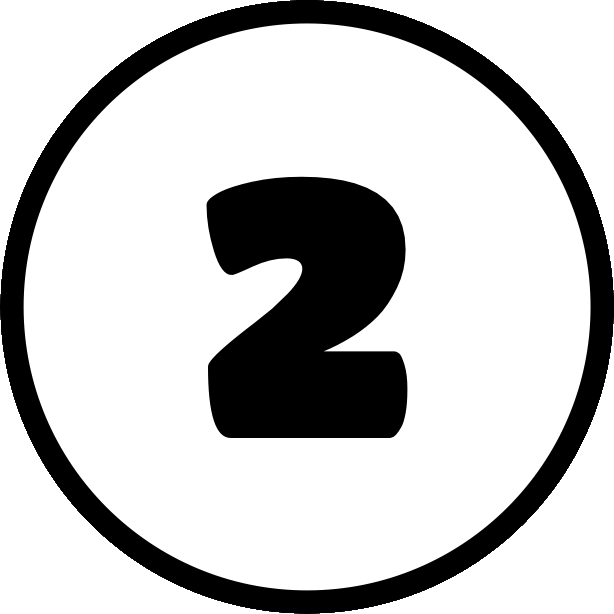
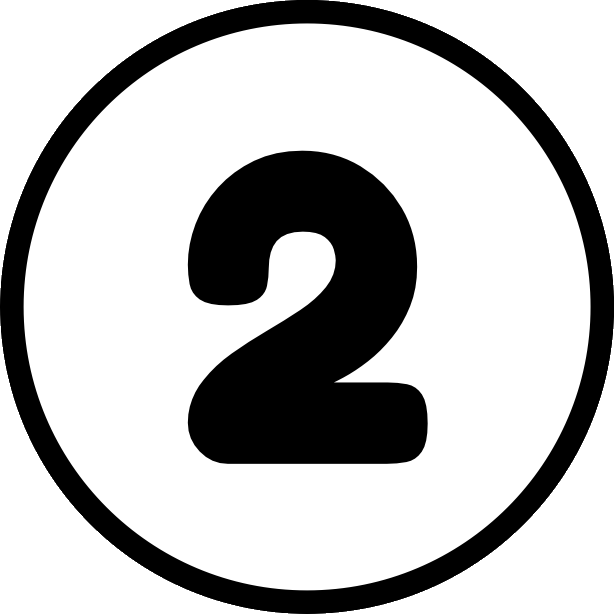
Modifying some components for accessibility for impaired colour vision

Changed region(s): [[0.3094, 0.3404, 0.7117, 0.7736], [0.2785, 0.3404, 0.557, 0.6189], [0.3404, 0.2476, 0.6498, 0.3404]]

diff --git a/balloon_cards_fronts.tex b/balloon_cards_fronts.tex
@@ -1,23 +1,24 @@
 \documentclass{standalone}
 \usepackage{balloonspectacular}
+\setmainfont{Titan One}
 
 \begin{document}
 \begin{tikzpicture}
 \path (0,0) rectangle (210mm, 297mm);
-\pic[rotate=90, transform shape] at (41.5mm,35mm) {ballooncardfrontprintable={{Images/lion.png}{1.0}}};
-\pic[rotate=90, transform shape] at (41.5mm,80mm) {ballooncardfrontprintable={{Images/diag_gr.png}{1.0}}};
-\pic[rotate=90, transform shape] at (41.5mm,125mm) {ballooncardfrontprintable={{Images/horiz_gw.png}{1.0}}};
-\pic[rotate=90, transform shape] at (41.5mm,170mm) {ballooncardfrontprintable={{Images/grid_py.png}{1.0}}};
-\pic[rotate=90, transform shape] at (41.5mm,215mm) {ballooncardfrontprintable={{Images/vert_ry.png}{1.0}}};
-\pic[rotate=90, transform shape] at (41.5mm,260mm) {ballooncardfrontprintable={{Images/diag_gp.png}{1.0}}};
+\pic[rotate=90, transform shape] at (41.5mm,35mm) {ballooncardfrontprintable={{Images/lion.png}{1.0}{-}{-}}};
+\pic[rotate=90, transform shape] at (41.5mm,80mm) {ballooncardfrontprintable={{Images/diag_gr.png}{1.0}{G}{R}}};
+\pic[rotate=90, transform shape] at (41.5mm,125mm) {ballooncardfrontprintable={{Images/horiz_gw.png}{1.0}{G}{W}}};
+\pic[rotate=90, transform shape] at (41.5mm,170mm) {ballooncardfrontprintable={{Images/grid_py.png}{1.0}{P}{Y}}};
+\pic[rotate=90, transform shape] at (41.5mm,215mm) {ballooncardfrontprintable={{Images/vert_ry.png}{1.0}{R}{Y}}};
+\pic[rotate=90, transform shape] at (41.5mm,260mm) {ballooncardfrontprintable={{Images/diag_gp.png}{1.0}{G}{P}}};
 
-\pic[rotate=90, transform shape] at (105mm,35mm) {ballooncardfrontprintable={{Images/wolf.png}{1.0}}};
-\pic[rotate=90, transform shape] at (105mm,80mm) {ballooncardfrontprintable={{Images/vert_pw.png}{1.0}}};
-\pic[rotate=90, transform shape] at (105mm,125mm) {ballooncardfrontprintable={{Images/vert_gy.png}{1.0}}};
-\pic[rotate=90, transform shape] at (105mm,170mm) {ballooncardfrontprintable={{Images/horiz_pr.png}{1.0}}};
-\pic[rotate=90, transform shape] at (105mm,215mm) {ballooncardfrontprintable={{Images/grid_rw.png}{1.0}}};
-\pic[rotate=90, transform shape] at (105mm,260mm) {ballooncardfrontprintable={{Images/diag_wy.png}{1.0}}};
+\pic[rotate=90, transform shape] at (105mm,35mm) {ballooncardfrontprintable={{Images/wolf.png}{1.0}{-}{-}}};
+\pic[rotate=90, transform shape] at (105mm,80mm) {ballooncardfrontprintable={{Images/vert_pw.png}{1.0}{P}{W}}};
+\pic[rotate=90, transform shape] at (105mm,125mm) {ballooncardfrontprintable={{Images/vert_gy.png}{1.0}{G}{Y}}};
+\pic[rotate=90, transform shape] at (105mm,170mm) {ballooncardfrontprintable={{Images/horiz_pr.png}{1.0}{P}{R}}};
+\pic[rotate=90, transform shape] at (105mm,215mm) {ballooncardfrontprintable={{Images/grid_rw.png}{1.0}{R}{W}}};
+\pic[rotate=90, transform shape] at (105mm,260mm) {ballooncardfrontprintable={{Images/diag_wy.png}{1.0}{W}{Y}}};
 
-\pic[rotate=90, transform shape] at (168.5mm,35mm) {ballooncardfrontprintable={{Images/monkey.png}{1.0}}};
+\pic[rotate=90, transform shape] at (168.5mm,35mm) {ballooncardfrontprintable={{Images/monkey.png}{1.0}{-}{-}}};
 \end{tikzpicture}
 \end{document}

diff --git a/scoring_token.tex b/scoring_token.tex
@@ -3,10 +3,12 @@
 
 %\setmainfont[Scale=2.5]{Titan One}
 \setmainfont[Scale=1.75]{Titan One}
+\setmainfont[Scale=2.125]{Fredoka-Bold}
+
 \begin{document}
 \begin{tikzpicture}
 
-\node[draw, line width=1mm, circle, minimum width=25mm, inner sep = 1mm] at (0,0) {{\Huge 9}};
+\node[draw, line width=1mm, circle, minimum width=25mm, inner sep = 1mm] at (0,0) {{\Huge 1}};
 
 \end{tikzpicture}
 

diff --git a/card_face_with_colour_labels.tex b/card_face_with_colour_labels.tex
@@ -1,0 +1,10 @@
+\documentclass{standalone}
+\usepackage{balloonspectacular}
+\setmainfont[Scale=1.5]{Fredoka-Bold}
+\setlength{\smallbleed}{0mm}
+
+\begin{document}
+\begin{tikzpicture}
+	\pic at (0,0) {ballooncardbackprintable={{Images/solid_y.png}{1.0}{Y}{Y}}};
+\end{tikzpicture}
+\end{document}

diff --git a/README.md b/README.md
@@ -88,13 +88,11 @@ In a cooperative game, your score is the width of the formation (i.e. the number
 ### Competitive Game
 In a competitive game, each balloon scores a number of points that is determined by its position within the formation. In general, balloons that are flying at higher altitudes score more points than those that are flying at lower alititudes.  If balloons are flying at the same altitude, then the balloons that are closer to the front (right-hand side) of the formation score more points than the balloons that are closer to the back (left-hand side) of the formation. 
 
-More precisely, each balloon scores a number of points equal to one plus the number of balloons flying at a lower altitude than itself plus the number of balloons flying at the same altitude as itself but behind it (to the left) in the formation. You should use the scoring tokens to indicate how many points each balloon scores.
-
 Use the scoring tokens to indicate the number of points scored by each balloon. Place the scoring token numbered "1" on the leftmost balloon in the bottom row of the formation. Scanning from left to right, place scoring tokens on the remaining balloons in the bottom row of the formation, always placing the token with lowest remaining number. Then proceed to the next highest row of the formation. Continue in this fashion, scanning from left to right and bottom to top, until each balloon that is flying has been assigned a scoring token.
 
 Notice that the leftmost balloon in the bottom row of the formation always scores one point while the rightmost balloon in the top row of the formation scores one point for every balloon that is flying at the end of the game. See the figure below for a more complete example.
 
-Your score is the sum of the scores for all of the balloons with which you are affiliated. You should reveal your colour card when you announce your score so that everyone can verify that the required computations have been performed correctly. The player with the highest score wins the game.
+Your score is the sum of the scores for all of the balloons with which you are affiliated (i.e. that match your colour card). You should reveal your colour card when you announce your score so that everyone can verify that the required computations have been performed correctly. The player with the highest score wins the game.
 
 ![Scores for each balloon at the end of a hypothetical game](scoring_diagram.jpg)
 
